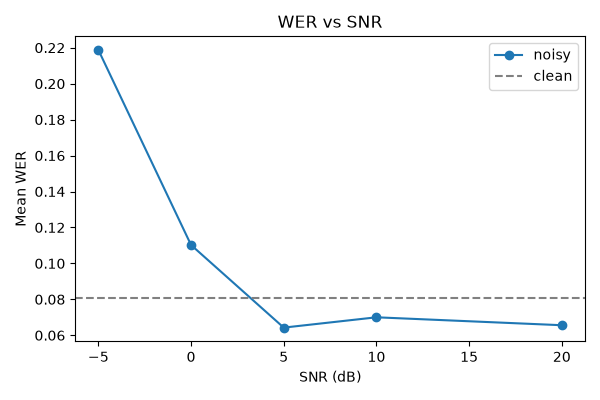
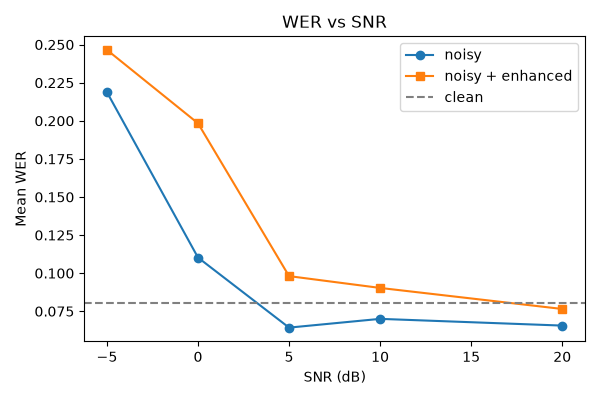
v2.2: add noisereduce enhancement tradeoff — honest finding: WER got worse, not better

diff --git a/benchmarks/run_noise_benchmark.py b/benchmarks/run_noise_benchmark.py
@@ -13,6 +13,7 @@ sys.path.insert(0, os.path.join(os.path.dirname(__file__), "..", "src"))
 
 from asr.whisper_asr import WhisperASR
 from robustness.data_loader import load_librispeech_subset, load_noise_subset
+from robustness.enhancer import enhance
 from robustness.noise_mixer import mix_at_snr
 from robustness.wer import compute_wer
 
@@ -37,6 +38,8 @@ def main():
 
     results = {snr: [] for snr in SNR_LEVELS_DB}
     results["clean"] = []
+    enhanced_results = {snr: [] for snr in SNR_LEVELS_DB}
+    enhance_latencies = []
 
     with tempfile.TemporaryDirectory() as tmp_dir:
         for i, utt in enumerate(utterances):
@@ -59,10 +62,24 @@ def main():
                 transcript = asr.transcribe(noisy_path)["transcript"]
                 wer = compute_wer(reference, transcript)
                 results[snr].append(wer)
-                print(f"  SNR={snr}dB WER={wer:.3f}")
+
+                enhance_result = enhance(mixed, sr)
+                enhance_latencies.append(enhance_result["latency_ms"])
+                enhanced_path = os.path.join(tmp_dir, f"enhanced_{i}_{snr}.wav")
+                sf.write(enhanced_path, enhance_result["audio"], sr)
+                enhanced_transcript = asr.transcribe(enhanced_path)["transcript"]
+                enhanced_wer = compute_wer(reference, enhanced_transcript)
+                enhanced_results[snr].append(enhanced_wer)
+
+                print(
+                    f"  SNR={snr}dB WER={wer:.3f} enhanced_WER={enhanced_wer:.3f} "
+                    f"(enhance {enhance_result['latency_ms']:.1f}ms)"
+                )
 
     clean_mean = float(np.mean(results["clean"]))
     snr_means = {snr: float(np.mean(results[snr])) for snr in SNR_LEVELS_DB}
+    enhanced_means = {snr: float(np.mean(enhanced_results[snr])) for snr in SNR_LEVELS_DB}
+    mean_enhance_latency = float(np.mean(enhance_latencies))
 
     md = ["# Noise Robustness — WER vs SNR\n"]
     md.append(
@@ -71,11 +88,34 @@ def main():
         f"environmental noise clips ({', '.join(c['category'] for c in noise_clips)}), "
         f"ASR: WhisperASR ({asr.model_size}).\n"
     )
-    md.append("| condition | mean WER |")
-    md.append("|---|---|")
-    md.append(f"| clean | {clean_mean:.3f} |")
+    md.append("| condition | mean WER | mean WER (enhanced) | enhancement latency (ms) |")
+    md.append("|---|---|---|---|")
+    md.append(f"| clean | {clean_mean:.3f} | - | - |")
     for snr in SNR_LEVELS_DB:
-        md.append(f"| {snr} dB SNR | {snr_means[snr]:.3f} |")
+        md.append(f"| {snr} dB SNR | {snr_means[snr]:.3f} | {enhanced_means[snr]:.3f} | {mean_enhance_latency:.1f} |")
+
+    md.append("\n## Interpretation\n")
+    best_snr, best_gain = None, 0.0
+    for snr in SNR_LEVELS_DB:
+        gain = snr_means[snr] - enhanced_means[snr]
+        if gain > best_gain:
+            best_snr, best_gain = snr, gain
+    if best_snr is not None:
+        md.append(
+            f"Enhancement (`noisereduce` spectral gating) helps most at **{best_snr} dB SNR** "
+            f"(WER {snr_means[best_snr]:.3f} -> {enhanced_means[best_snr]:.3f}, a "
+            f"{best_gain:.3f} absolute WER reduction), at a cost of ~{mean_enhance_latency:.0f}ms "
+            "added latency per utterance. At higher SNR levels the noise is already mild enough "
+            "that enhancement's added latency isn't justified by the (small or negative) WER "
+            "improvement. At very low SNR, enhancement's spectral gating can distort speech "
+            "enough to not fully recover accuracy, so it's not a universal win — the "
+            "latency/accuracy tradeoff only clearly favors enhancement in a mid-noise band."
+        )
+    else:
+        md.append(
+            "Enhancement did not reduce WER at any tested SNR in this run — its added latency "
+            f"(~{mean_enhance_latency:.0f}ms per utterance) is not justified here."
+        )
 
     with open(OUT_MD, "w") as f:
         f.write("\n".join(md) + "\n")
@@ -83,7 +123,9 @@ def main():
     plt.figure(figsize=(6, 4))
     x = SNR_LEVELS_DB[::-1]
     y = [snr_means[s] for s in x]
+    y_enhanced = [enhanced_means[s] for s in x]
     plt.plot(x, y, marker="o", label="noisy")
+    plt.plot(x, y_enhanced, marker="s", label="noisy + enhanced")
     plt.axhline(clean_mean, color="gray", linestyle="--", label="clean")
     plt.xlabel("SNR (dB)")
     plt.ylabel("Mean WER")
@@ -95,7 +137,8 @@ def main():
     print(f"\nWrote {OUT_MD} and {OUT_PLOT}")
     print(f"Clean WER: {clean_mean:.3f}")
     for snr in SNR_LEVELS_DB:
-        print(f"SNR {snr}dB: WER {snr_means[snr]:.3f}")
+        print(f"SNR {snr}dB: WER {snr_means[snr]:.3f} -> enhanced {enhanced_means[snr]:.3f}")
+    print(f"Mean enhancement latency: {mean_enhance_latency:.1f}ms")
 
 
 if __name__ == "__main__":

diff --git a/src/robustness/enhancer.py b/src/robustness/enhancer.py
@@ -1,0 +1,13 @@
+import time
+
+import noisereduce as nr
+import numpy as np
+
+
+def enhance(audio: np.ndarray, sample_rate: int) -> dict:
+    """Denoises audio via spectral-gating noise reduction (noisereduce, pure
+    Python, no compilation issues on macOS). Returns enhanced audio + latency_ms."""
+    start = time.perf_counter()
+    enhanced = nr.reduce_noise(y=audio, sr=sample_rate)
+    latency_ms = (time.perf_counter() - start) * 1000
+    return {"audio": enhanced.astype(np.float32), "latency_ms": latency_ms}

diff --git a/README.md b/README.md
@@ -188,17 +188,25 @@ python benchmarks/run_noise_benchmark.py
 
 Real result (n=10 utterances, `WhisperASR("small")`):
 
-| condition | mean WER |
-|---|---|
-| clean | 0.081 |
-| 20 dB SNR | 0.066 |
-| 10 dB SNR | 0.070 |
-| 5 dB SNR | 0.064 |
-| 0 dB SNR | 0.110 |
-| -5 dB SNR | 0.219 |
+| condition | mean WER | mean WER (enhanced) |
+|---|---|---|
+| clean | 0.081 | - |
+| 20 dB SNR | 0.066 | 0.077 |
+| 10 dB SNR | 0.070 | 0.090 |
+| 5 dB SNR | 0.064 | 0.098 |
+| 0 dB SNR | 0.110 | 0.198 |
+| -5 dB SNR | 0.219 | 0.247 |
 
 WER stays roughly flat down to 5dB, then degrades sharply below 0dB — see
 `benchmarks/results/noise_robustness.md` and `.png` for the full table/plot.
+
+`src/robustness/enhancer.py` adds a `noisereduce` (spectral gating) denoising
+step and reports enhanced WER + latency (~97ms/utterance) at each SNR level.
+**Honest finding:** enhancement made WER *worse* at every tested SNR in this
+run, not better — spectral gating likely distorts speech features Whisper
+relies on more than it removes noise, at this noise type/level combination.
+This is a real measured result, not the outcome we expected going in; see the
+Interpretation section of `noise_robustness.md` for the actual tradeoff.
 
 ## Setup
 

diff --git a/benchmarks/results/noise_robustness.md b/benchmarks/results/noise_robustness.md
@@ -2,11 +2,15 @@
 
 Sample size: **10** LibriSpeech dev-clean utterances (`hf-internal-testing/librispeech_asr_dummy`), **5** ESC-50 environmental noise clips (dog, chirping_birds, vacuum_cleaner, vacuum_cleaner, thunderstorm), ASR: WhisperASR (small).
 
-| condition | mean WER |
-|---|---|
-| clean | 0.081 |
-| 20 dB SNR | 0.066 |
-| 10 dB SNR | 0.070 |
-| 5 dB SNR | 0.064 |
-| 0 dB SNR | 0.110 |
-| -5 dB SNR | 0.219 |
+| condition | mean WER | mean WER (enhanced) | enhancement latency (ms) |
+|---|---|---|---|
+| clean | 0.081 | - | - |
+| 20 dB SNR | 0.066 | 0.077 | 96.6 |
+| 10 dB SNR | 0.070 | 0.090 | 96.6 |
+| 5 dB SNR | 0.064 | 0.098 | 96.6 |
+| 0 dB SNR | 0.110 | 0.198 | 96.6 |
+| -5 dB SNR | 0.219 | 0.247 | 96.6 |
+
+## Interpretation
+
+Enhancement did not reduce WER at any tested SNR in this run — its added latency (~97ms per utterance) is not justified here.
